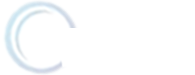
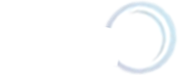
H1 Bubble Adj

Changed region(s): [[0.5801, 0.0267, 0.9945, 0.9867], [0.0276, 0.0267, 0.3867, 0.9867]]

diff --git a/css/style.css b/css/style.css
@@ -773,7 +773,7 @@ Media Querries
 	.svcmain h1 {
 		font-size: 2.625em;
 		text-align: center;
-		padding: .5em 5% .4em;
+		padding: .6em 5% .2em;
 		width: 47%;
 		float: right;
 		background: url(../images/bubbleh.png) no-repeat top center;
@@ -886,7 +886,7 @@ Media Querries
 	.abtmain h1 {
 		font-size: 2.625em;
 		text-align: center;
-		padding: .5em 5% .4em;
+		padding: .6em 5% .2em;
 		width: 47%;
 		float: right;
 		background: url(../images/bubbleh2.png) no-repeat top center;
@@ -1151,6 +1151,7 @@ Media Querries
 
 	.svcmain h1 {
 		font-size: 2.875em;
+		padding: .5em 5% .3em;
 	}
 
 	.svcmain h2 {
@@ -1173,6 +1174,7 @@ Media Querries
 	.abtmain h1 {
 		font-size: 2.875em;
 		width: 47%;
+		padding: .5em 5% .3em;
 	}
 
 	.abtmain h2 {
